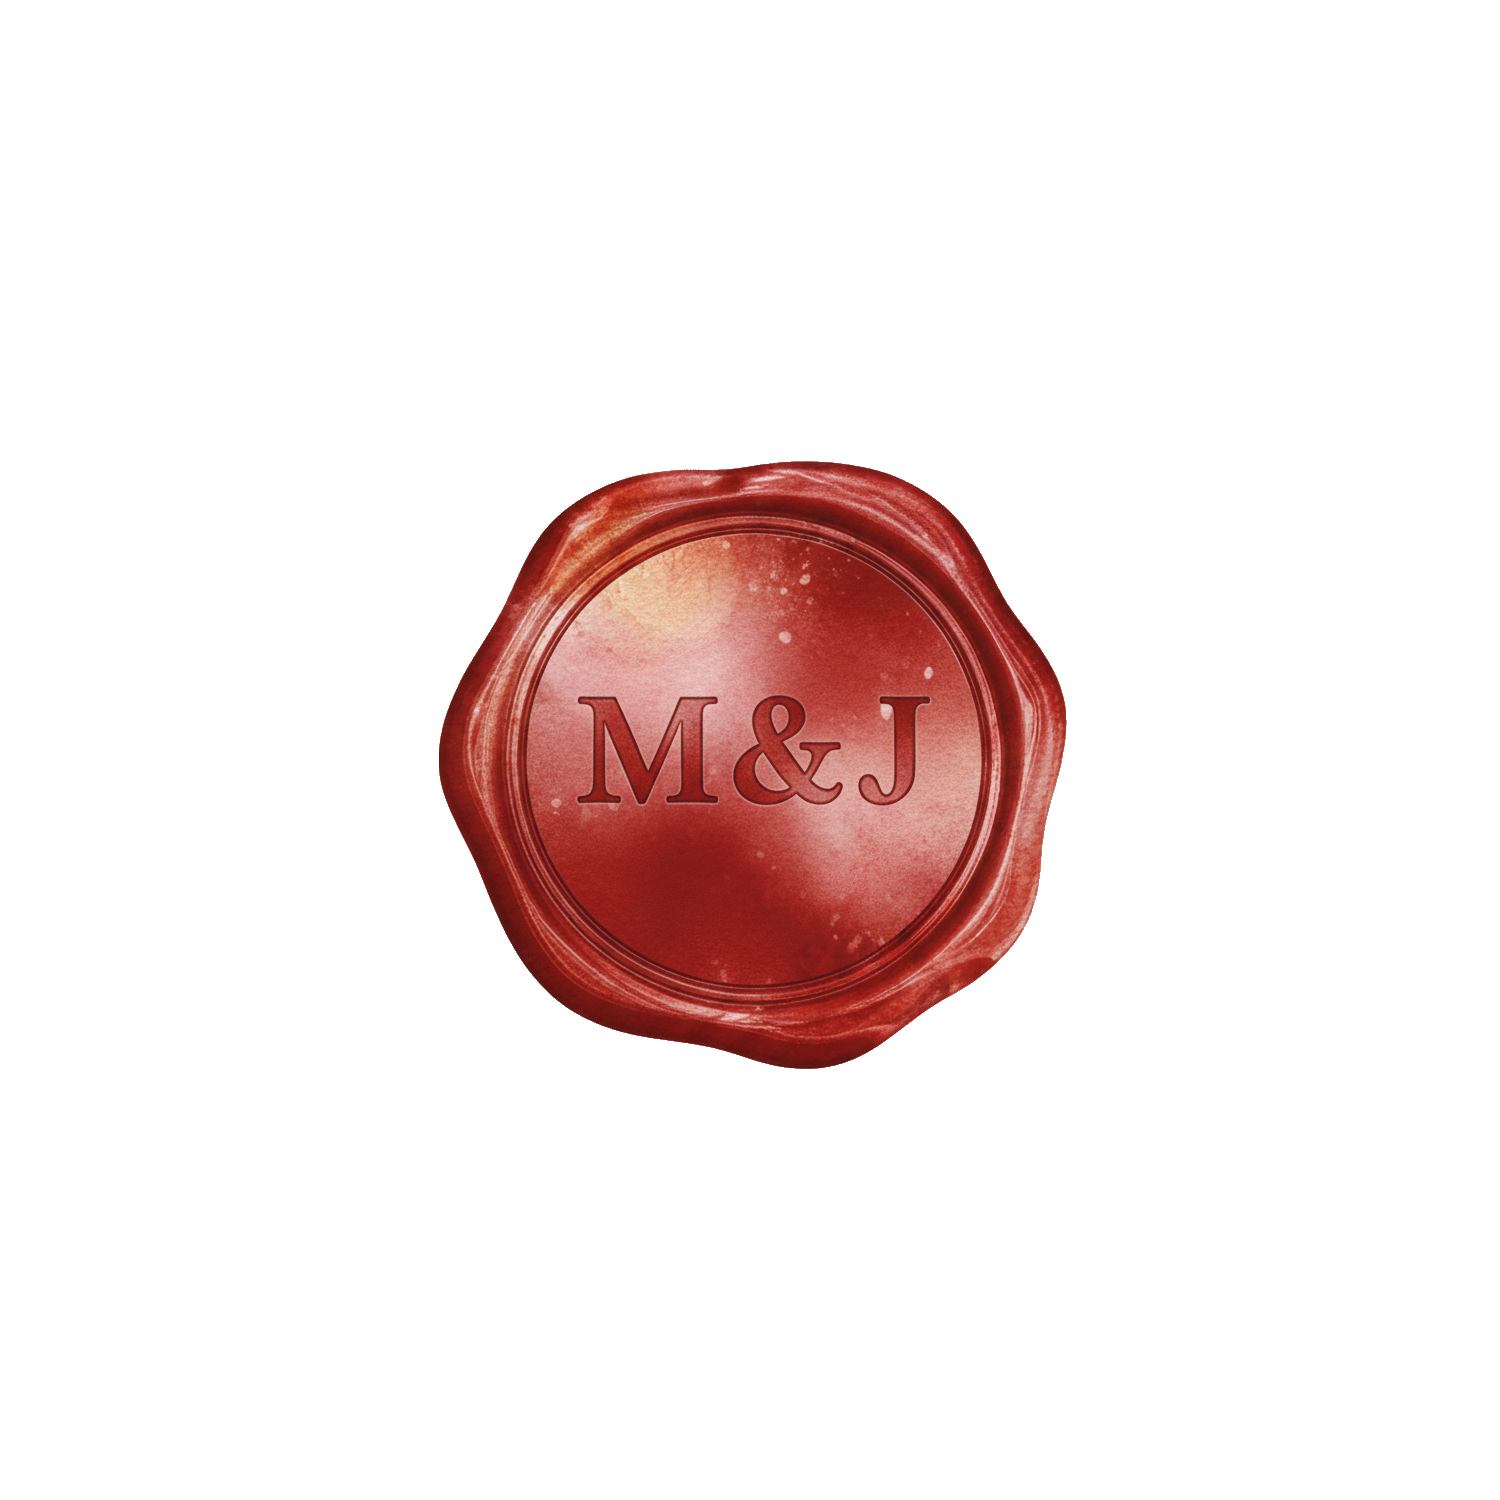
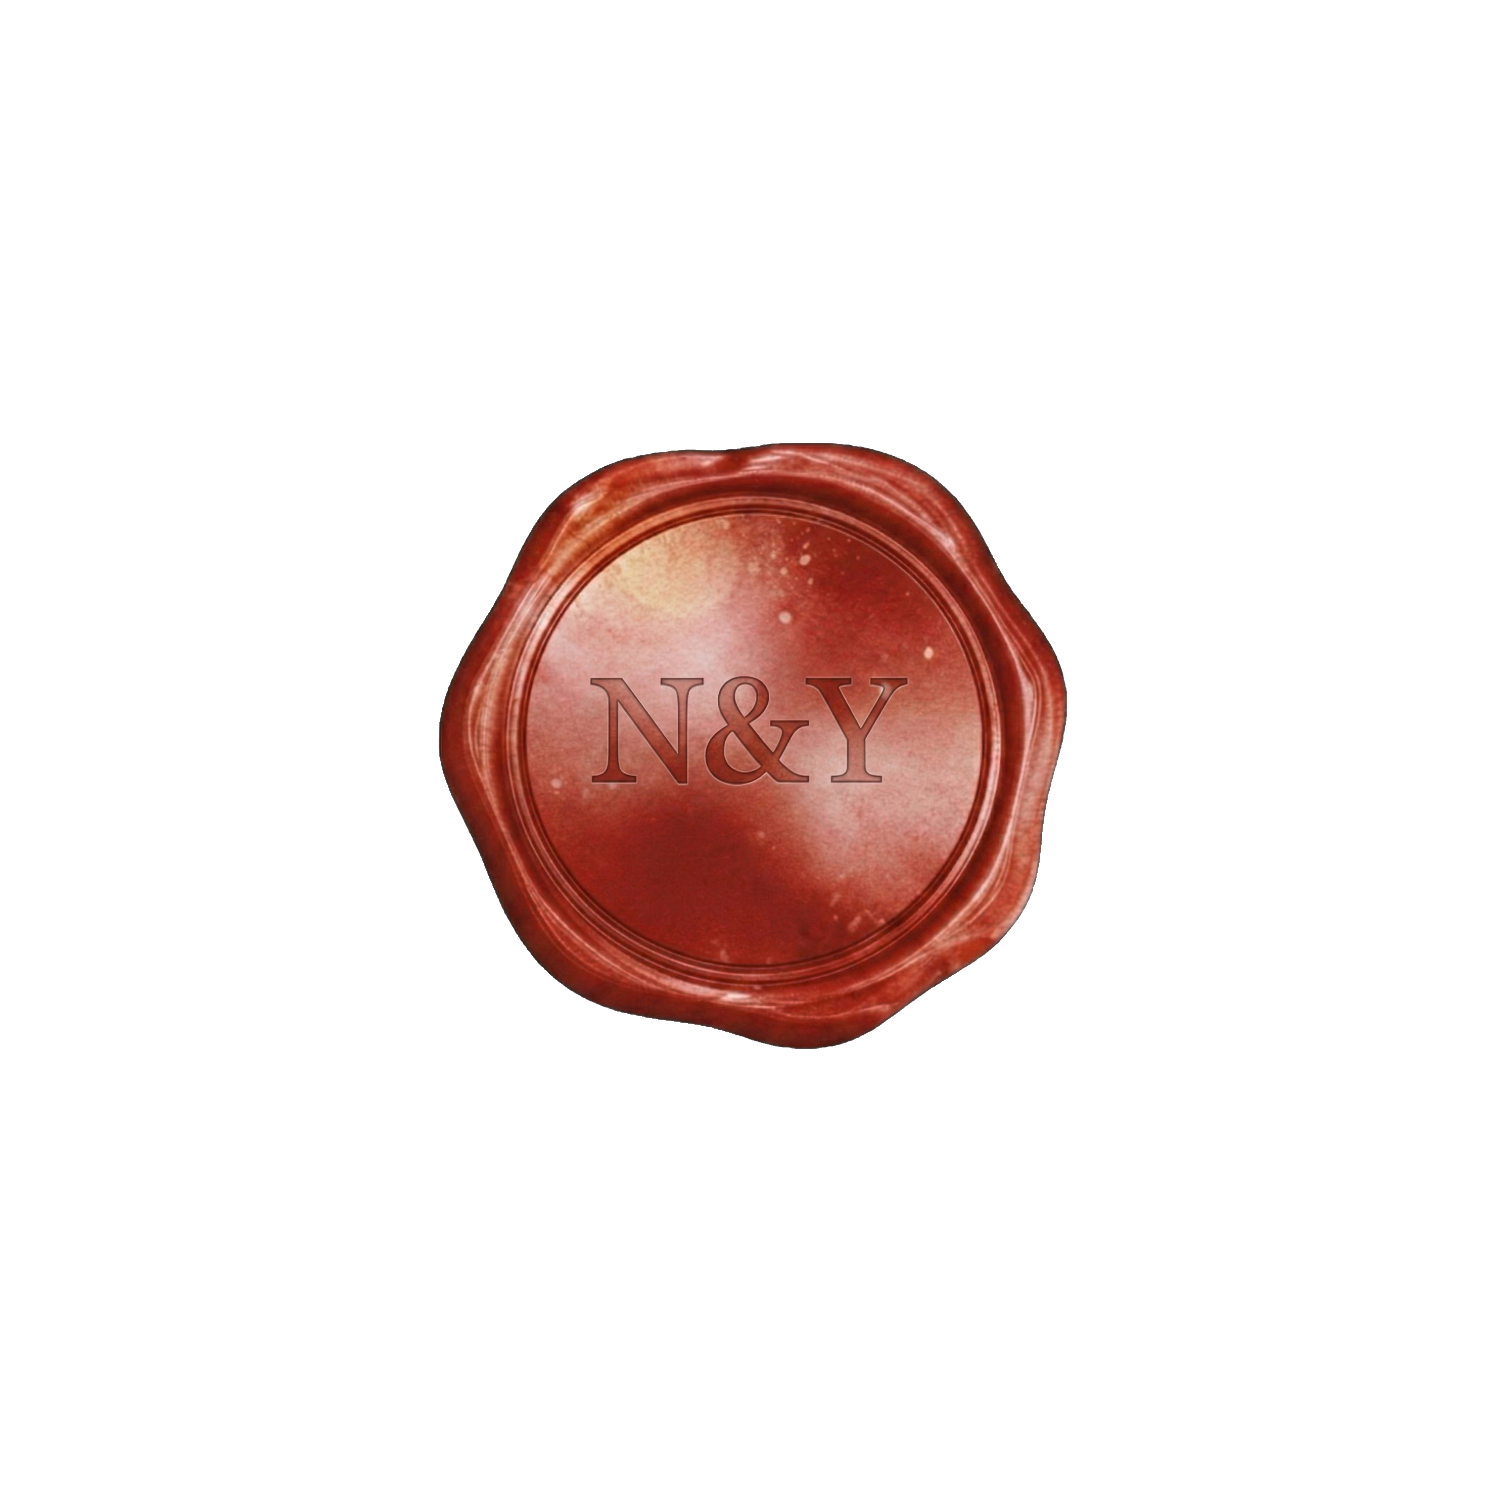
Configure RSVP form and EmailJS integration
Add a hidden input for the couple name and set the RSVP button's type and id to ensure proper form submission. Wire up emailjs.sendForm with the service and template IDs to enable sending the form via EmailJS. Also update several image assets (sello, separador, vestimenta) used by the page.

Changed region(s): [[0.276, 0.276, 0.736, 0.736]]

diff --git a/index.html b/index.html
@@ -372,6 +372,7 @@
 
             <div class="rsvp-container">
                 <form id="rsvp-form" class="styled-form">
+                    <input type="hidden" name="couple_name" value="Natalia & Yohan">
                     <div class="input-row">
                         <div class="form-group">
                             <label for="from_name">Nombres *</label>
@@ -404,7 +405,7 @@
                         </div>
                     </div>
 
-                    <button class="btn-primary">Enviar</button>
+                    <button type="submit" id="button-send" class="btn-primary">Enviar</button>
                 </form>
             </div>
             <div class="divider"><img src="src/separador.png" alt="decoración" style="margin-bottom: -25px; "></div>

diff --git a/scriptmain.js b/scriptmain.js
@@ -33,7 +33,7 @@ document.getElementById('rsvp-form').addEventListener('submit', function(event) 
    btn.innerText = 'ENVIANDO...';
    btn.style.opacity = '0.7';
 
-   emailjs.sendForm('', '', this)
+   emailjs.sendForm('service_6m7prwn', 'template_41pvc6t', this)
     .then(() => {
       btn.innerText = '¡ENVIADO CON ÉXITO!';
       btn.style.backgroundColor = '#27ae60';
